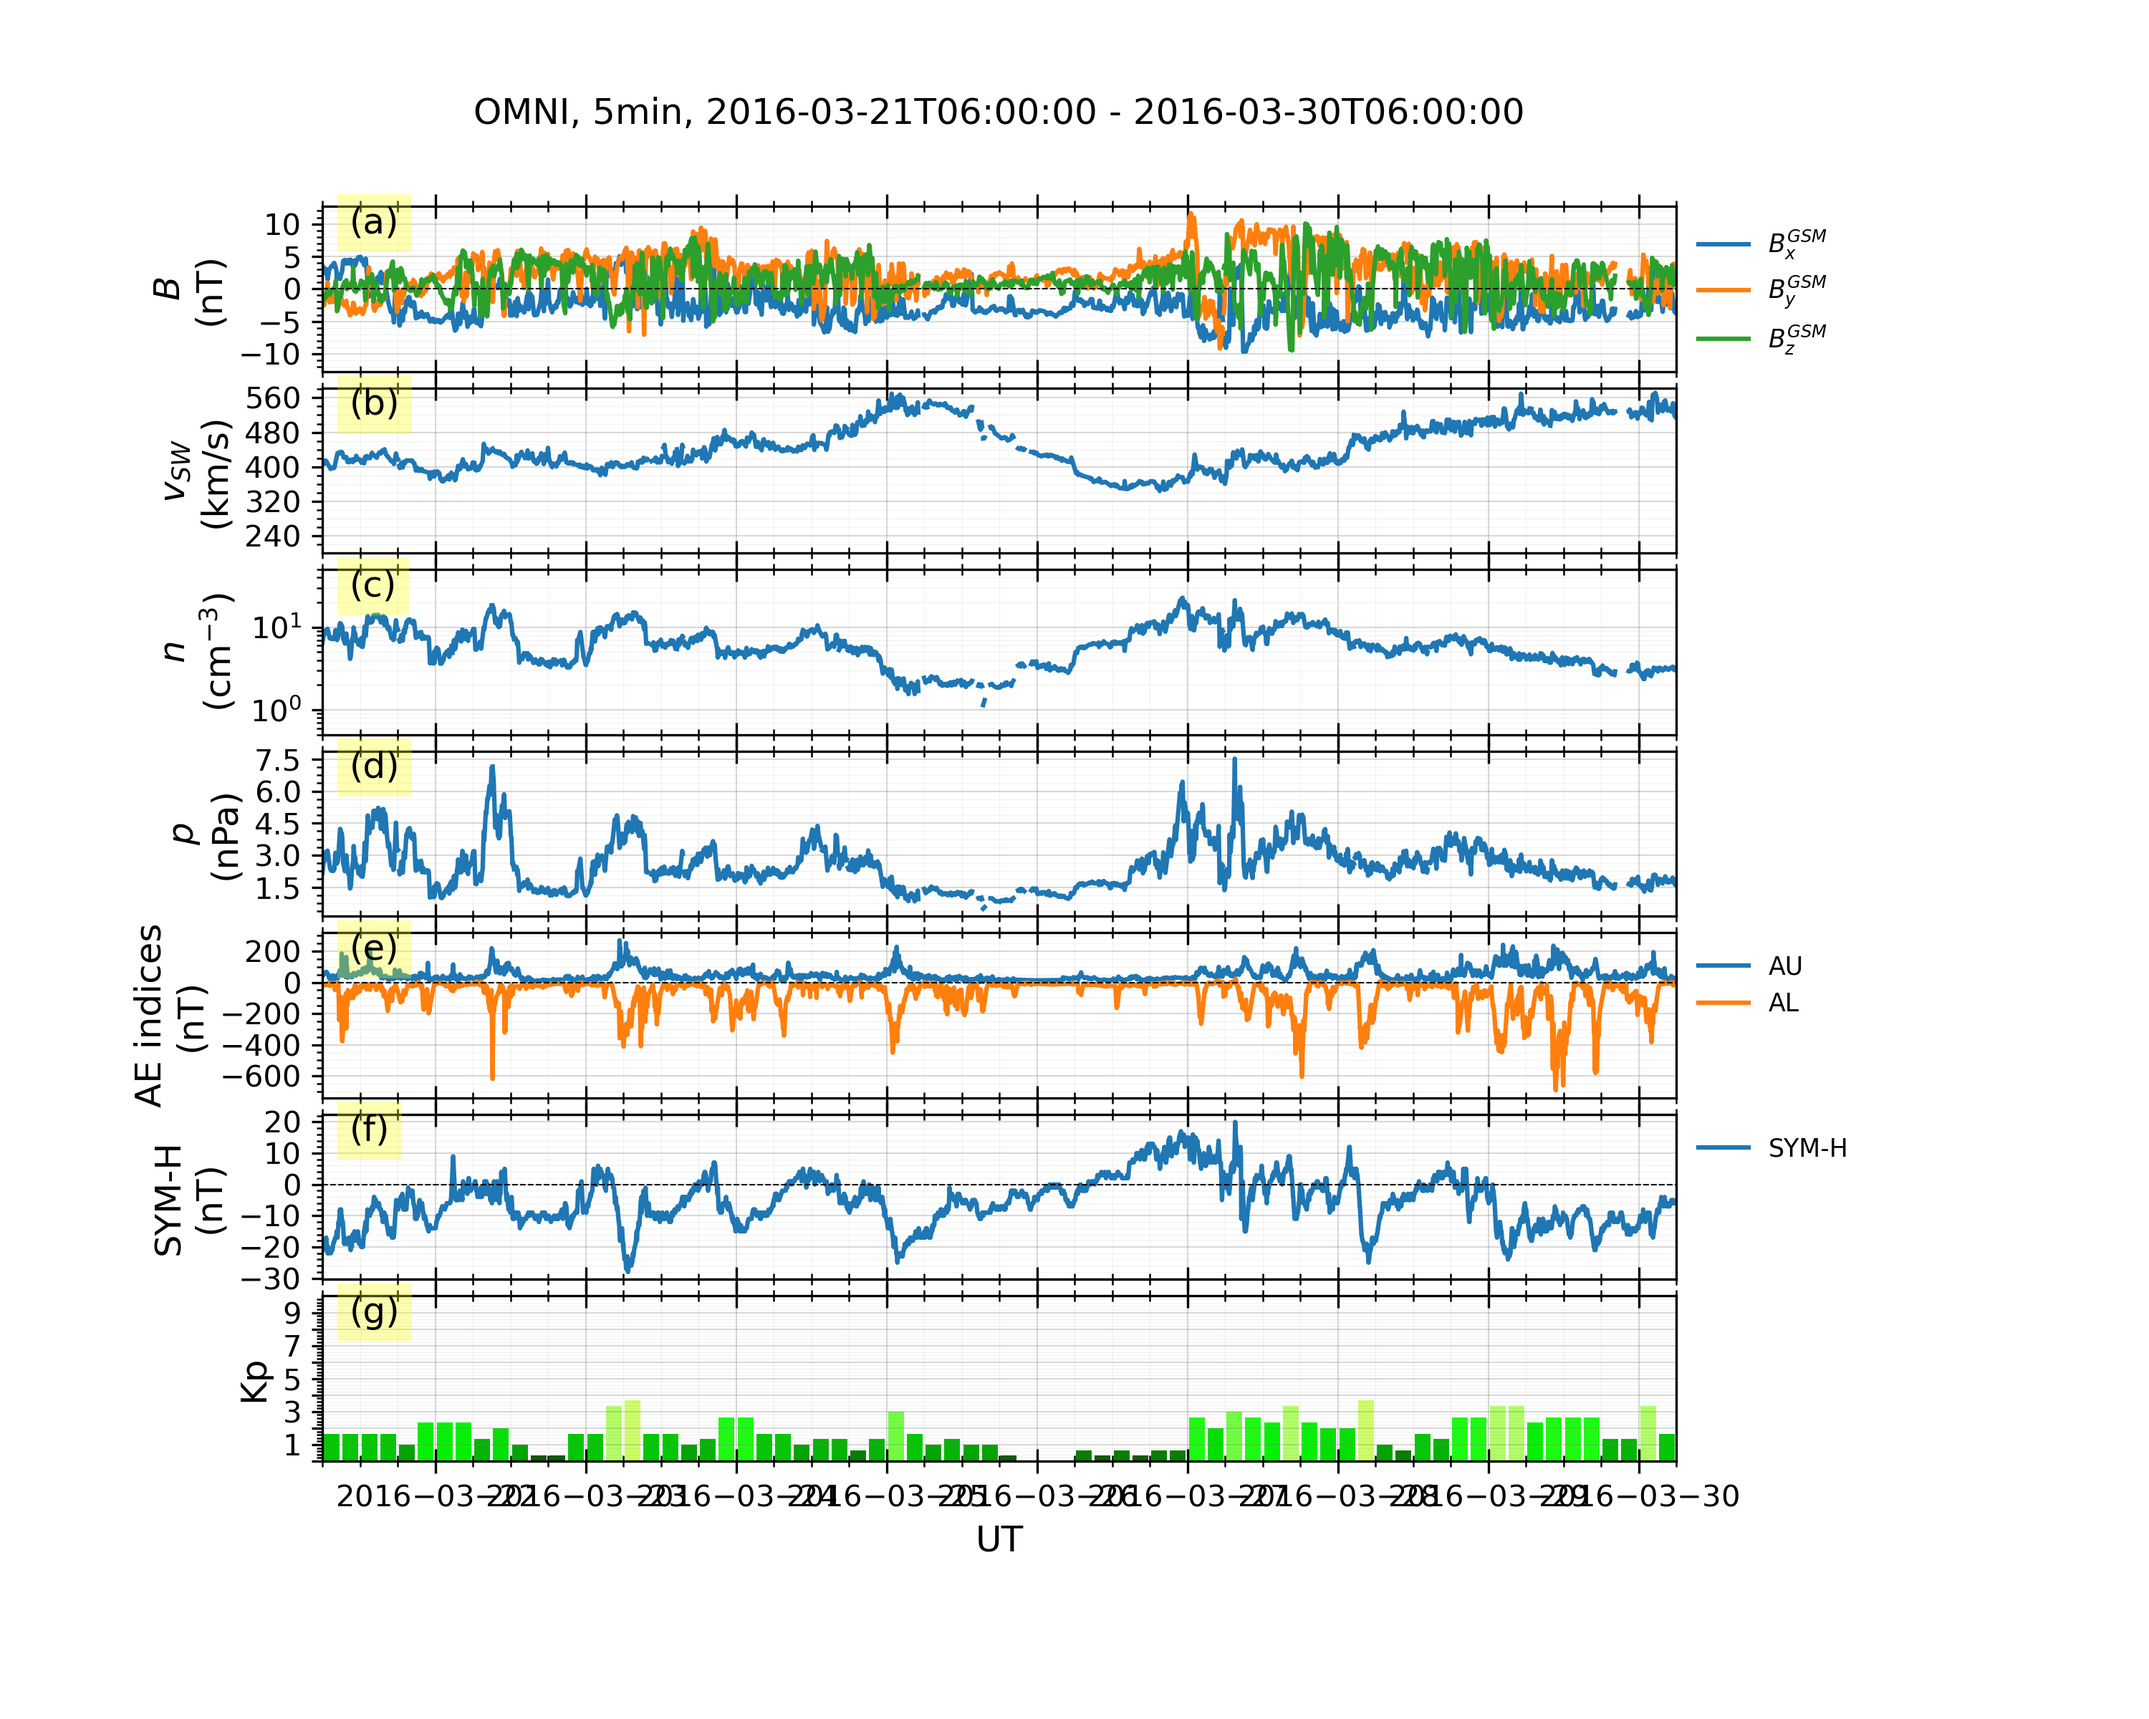
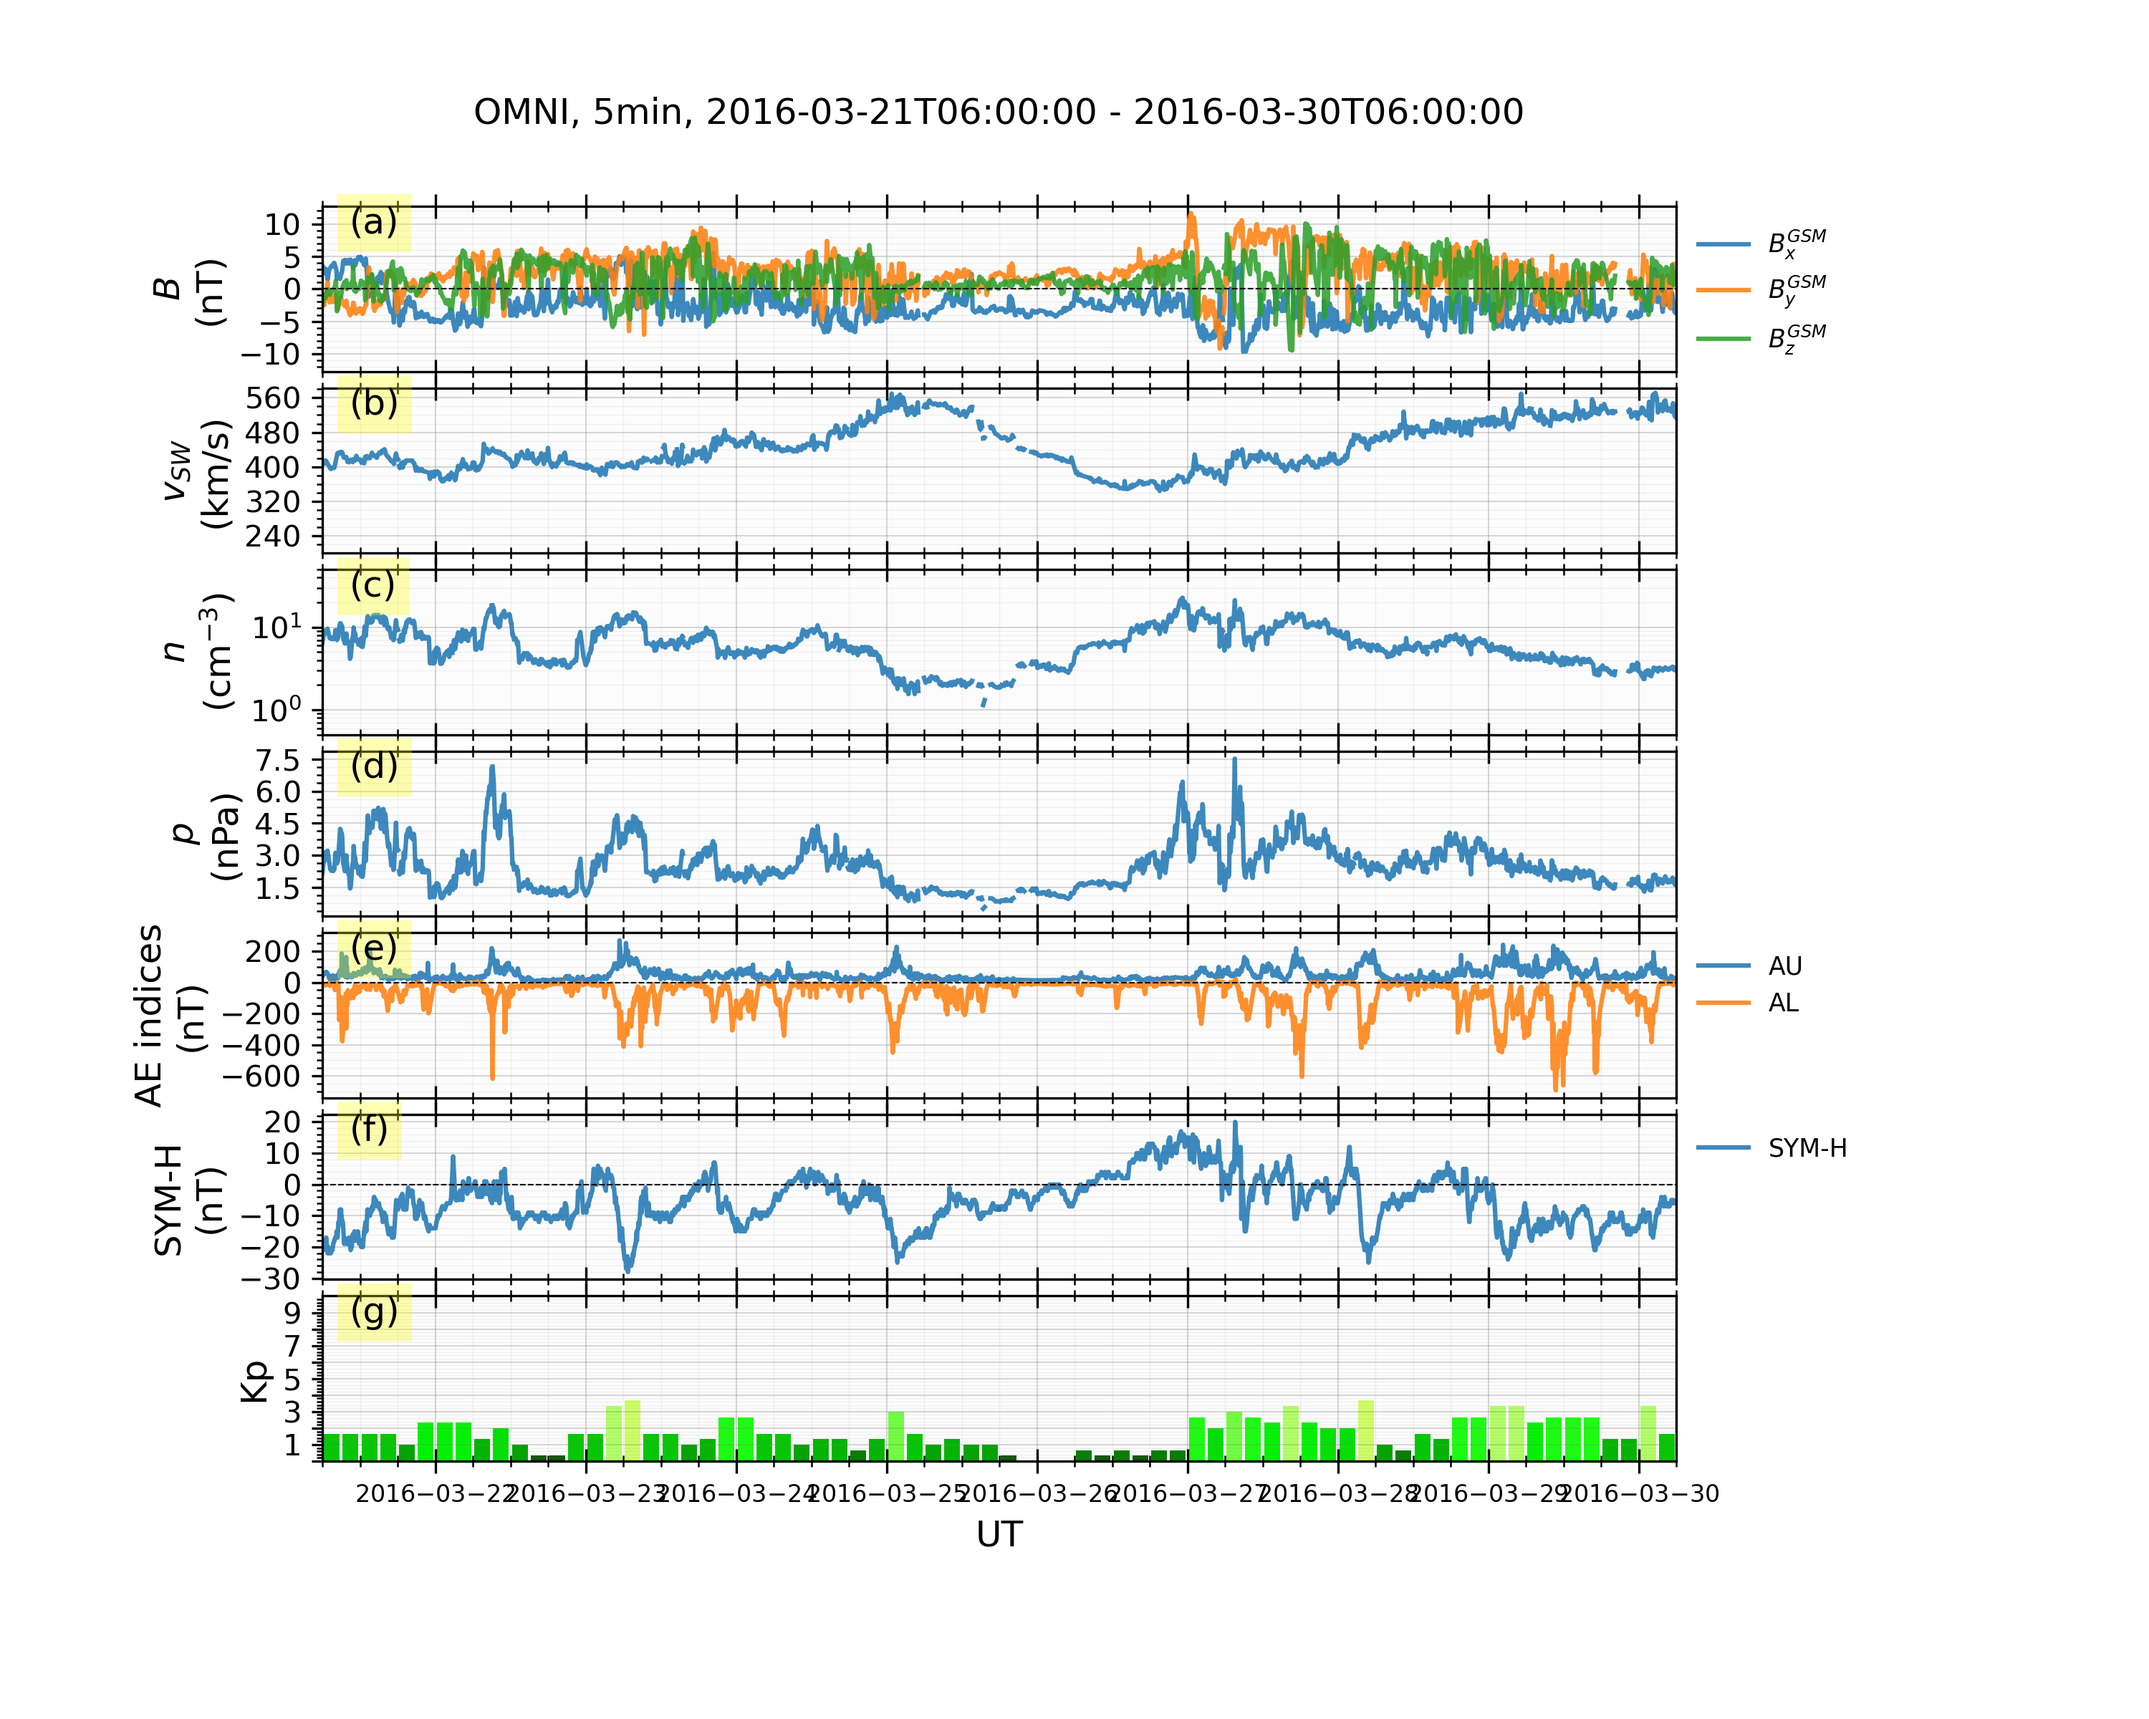
update

diff --git a/geospacelab/visualization/mpl/__base__.py b/geospacelab/visualization/mpl/__base__.py
@@ -4,14 +4,70 @@ import string
 import numpy as np
 import matplotlib.pyplot as plt
 import matplotlib as mpl
+
 from matplotlib.gridspec import GridSpec, SubplotSpec
 from matplotlib.figure import Figure
 
+from cycler import cycler
+
+from geospacelab import preferences as pref
 from geospacelab.toolbox.utilities.pyclass import StrBase
 import geospacelab.toolbox.utilities.pybasic as pybasic
 from geospacelab.visualization.mpl._helpers import check_panel_ax
 import geospacelab.toolbox.utilities.pylogging as mylog
 # from geospacelab.visualization.mpl.dashboards import Dashboard
+
+
+try:
+    mpl_style = pref.user_config['visualization']['mpl']['style']
+except KeyError:
+    uc = pref.user_config
+    uc['visualization']['mpl']['style'] = 'light'
+    pref.set_user_config(user_config=uc, set_as_default=True)
+
+
+plt.rcParams['font.serif'] = 'Ubuntu'
+plt.rcParams['font.monospace'] = 'Ubuntu Mono'
+plt.rcParams['font.size'] = 10
+plt.rcParams['axes.labelsize'] = 10
+plt.rcParams['axes.labelweight'] = 'book'
+plt.rcParams['axes.titlesize'] = 10
+plt.rcParams['xtick.labelsize'] = 8
+plt.rcParams['ytick.labelsize'] = 8
+plt.rcParams['legend.fontsize'] = 10
+plt.rcParams['figure.titlesize'] = 12
+
+# plt.style.use('https://github.com/dhaitz/matplotlib-stylesheets/raw/master/pacoty.mplstyle')
+mpl_style = pref.user_config['visualization']['mpl']['style']
+
+if mpl_style == 'light':
+    plt.rcParams['axes.facecolor'] = '#FCFCFC'
+    plt.rcParams['text.color'] = 'k'
+    default_cycler = (cycler(color=['tab:blue', 'tab:red', 'tab:green', 'tab:purple',  'tab:orange', 'tab:brown', 'tab:pink', 'tab:gray', 'tab:olive', 'tab:cyan']))
+    default_cycler = (cycler(color=['#1f77b4DD', '#ff7f0eDD', '#2ca02cDD', '#d62728DD', '#9467bdDD', '#8c564bDD', '#e377c2DD', '#7f7f7fDD', '#bcbd22DD', '#17becfDD']))     # tab10 with alpha
+    plt.rc('axes', prop_cycle=default_cycler)
+elif mpl_style == 'dark':
+    plt.rcParams['figure.facecolor'] = '#0C1C23'
+    plt.rcParams['savefig.facecolor'] = '#0C1C23'
+
+    plt.rcParams['axes.facecolor'] = '#FFFFFF20'
+    plt.rcParams['axes.edgecolor'] = '#FFFFFF3D'
+    plt.rcParams['axes.labelcolor'] = '#FFFFFFD9'
+
+    plt.rcParams['xtick.color'] = '#FFFFFFD9'
+    plt.rcParams['ytick.color'] = '#FFFFFFD9'
+    plt.rcParams['text.color'] = 'white'
+
+    plt.rcParams['grid.color'] = '#FFFFFF'
+    plt.rcParams['legend.facecolor'] = plt.rcParams['axes.facecolor']
+    plt.rcParams['legend.edgecolor'] = '#FFFFFFD9'
+
+    # seaborn dark:['#001c7f', '#b1400d', '#12711c', '#8c0800', '#591e71', '#592f0d', '#a23582', '#3c3c3c', '#b8850a', '#006374']
+    # seaborn pastel '#a1c9f4', '#ffb482', '#8de5a1', '#ff9f9b', '#d0bbff', '#debb9b', '#fab0e4', '#cfcfcf', '#fffea3', '#b9f2f0'
+    default_cycler = (cycler(color=['#F5EE33', '#33FF99', 'r', '#9467bd', '#08C7FE', '#FE66BB', ]))
+    plt.rc('axes', prop_cycle=default_cycler)
+else:
+    plt.style.use(mpl_style)
 
 
 class FigureBase(Figure):

diff --git a/geospacelab/visualization/mpl/dashboards.py b/geospacelab/visualization/mpl/dashboards.py
@@ -15,64 +15,15 @@ import matplotlib.pyplot as plt
 import numpy as np
 import datetime
 import matplotlib as mpl
-from cycler import cycler
 import matplotlib.dates as mdates
 
 from geospacelab.datahub import DataHub
-from geospacelab import preferences as pref
+
 import geospacelab.visualization.mpl.panels as mpl_panel
 import geospacelab.toolbox.utilities.pybasic as basic
 import geospacelab.toolbox.utilities.pydatetime as dttool
 from geospacelab.visualization.mpl.__base__ import DashboardBase
 import geospacelab.visualization.mpl.panels as panels
-
-try:
-    mpl_style = pref.user_config['visualization']['mpl']['style']
-except KeyError:
-    uc = pref.user_config
-    uc['visualization']['mpl']['style'] = 'light'
-    pref.set_user_config(user_config=uc, set_as_default=True)
-
-
-plt.rcParams['font.serif'] = 'Ubuntu'
-plt.rcParams['font.monospace'] = 'Ubuntu Mono'
-plt.rcParams['font.size'] = 10
-plt.rcParams['axes.labelsize'] = 10
-plt.rcParams['axes.labelweight'] = 'book'
-plt.rcParams['axes.titlesize'] = 10
-plt.rcParams['xtick.labelsize'] = 8
-plt.rcParams['ytick.labelsize'] = 8
-plt.rcParams['legend.fontsize'] = 10
-plt.rcParams['figure.titlesize'] = 12
-
-# plt.style.use('https://github.com/dhaitz/matplotlib-stylesheets/raw/master/pacoty.mplstyle')
-mpl_style = pref.user_config['visualization']['mpl']['style']
-
-if mpl_style == 'light':
-    plt.rcParams['axes.facecolor'] = '#FCFCFC'
-    plt.rcParams['text.color'] = 'k'
-    default_cycler = (cycler(color=['tab:blue', 'tab:red', 'tab:green', 'tab:orange', 'tab:purple', 'tab:brown', 'tab:pink', 'tab:gray', 'tab:olive', 'tab:cyan']))
-    plt.rc('axes', prop_cycle=default_cycler)
-elif mpl_style == 'dark':
-    plt.rcParams['figure.facecolor'] = '#0C1C23'
-    plt.rcParams['savefig.facecolor'] = '#0C1C23'
-
-    plt.rcParams['axes.facecolor'] = '#FFFFFF20'
-    plt.rcParams['axes.edgecolor'] = '#FFFFFF3D'
-    plt.rcParams['axes.labelcolor'] = '#FFFFFFD9'
-
-    plt.rcParams['xtick.color'] = '#FFFFFFD9'
-    plt.rcParams['ytick.color'] = '#FFFFFFD9'
-    plt.rcParams['text.color'] = 'white'
-
-    plt.rcParams['grid.color'] = '#FFFFFF'
-    plt.rcParams['legend.facecolor'] = plt.rcParams['axes.facecolor']
-    plt.rcParams['legend.edgecolor'] = '#FFFFFFD9'
-
-    default_cycler = (cycler(color=['tab:blue', 'tab:red', 'tab:purple', 'tab:green', 'tab:orange', 'tab:brown', 'tab:pink', 'tab:gray', 'tab:olive', 'tab:cyan']))
-    plt.rc('axes', prop_cycle=default_cycler)
-else:
-    plt.style.use(mpl_style)
 
 
 class Dashboard(DataHub, DashboardBase):

diff --git a/examples/demo_millstonehill_isr.py b/examples/demo_millstonehill_isr.py
@@ -7,16 +7,16 @@ from geospacelab.express.millstonehill_dashboard import MillstoneHillISRDashboar
 def example_basic_quicklook():
 
     # Set the starting and stopping times
-    dt_fr = datetime.datetime.strptime('20150317' + '1500', '%Y%m%d%H%M')
-    dt_to = datetime.datetime.strptime('20150319' + '2000', '%Y%m%d%H%M')
+    dt_fr = datetime.datetime.strptime('20160316' + '1200', '%Y%m%d%H%M')
+    dt_to = datetime.datetime.strptime('20160317' + '1200', '%Y%m%d%H%M')
 
     # Set the radar parameters
-    antenna = 'misa'    # antenna name: 'zenith', or 'misa'
+    antenna = 'zenith'    # antenna name: 'zenith', or 'misa'
     pulse_code = 'single pulse'     # pulse code: 'single pulse', 'alternating'
     pulse_length = 480              # pulse length: an integer. If not specified,
                                     # the package will search all the pulses in the data file
                                     # and show a message in the console.
-    exp_name_pattern = 'van allen'  # the key words of the experiment (less than 5 words), the experiment name can be quried using "exp_check".
+    exp_name_pattern = ''  # the key words of the experiment (less than 5 words), the experiment name can be quried using "exp_check".
     exp_check = False               # If True, list all the experiment during the period.
     load_mode = 'AUTO'              # default loading mode.
     dashboard = MillstoneHillISRDashboard(
@@ -26,7 +26,7 @@ def example_basic_quicklook():
     )
     # Select one or multiple beams shown in the quicklook plot.
     # if commented, all beams will shown following the time sequence.
-    dashboard.select_beams(az_el_pairs=[[-40.5, 45]])
+    # dashboard.select_beams(az_el_pairs=[[-40.5, 45]])
     # Make quicklook plot
     dashboard.quicklook()
     # Save the figure

diff --git a/geospacelab/datahub/__dataset_base__.py b/geospacelab/datahub/__dataset_base__.py
@@ -207,9 +207,12 @@ class DatasetBase(object):
     def get_variable_names(self) -> list:
         return list(self._variables.keys())
 
+    def register_method(self, func):
+        from types import MethodType
+        setattr(self, func.__name__, MethodType(func, self))
+
 
 class DatasetUser(DatasetBase):
-
     def __init__(self,
                  dt_fr: datetime.datetime = None,
                  dt_to: datetime.datetime = None,
@@ -220,6 +223,8 @@ class DatasetUser(DatasetBase):
         super().__init__(
             dt_fr=dt_fr, dt_to=dt_to, name=name, kind='user-defined', visual=visual, label_fields=label_fields, **kwargs
         )
+
+
 
 
 class DatasetSourced(DatasetBase):

diff --git a/README.md b/README.md
@@ -11,7 +11,7 @@
 [![PyPI version fury.io](https://badge.fury.io/py/ansicolortags.svg)](https://pypi.python.org/pypi/geospacelab/)
 
 
-To collect, manage, and visualize geospace data, aiming to speed up the research in space physics. The documentation can be found 
+GeospaceLAB provides a framework of data access, analysis, and visualization for the researchers in space physics and space weather. The documentation can be found 
 on [readthedocs.io](https://geospacelab.readthedocs.io/en/latest/).
 
 ## Features
